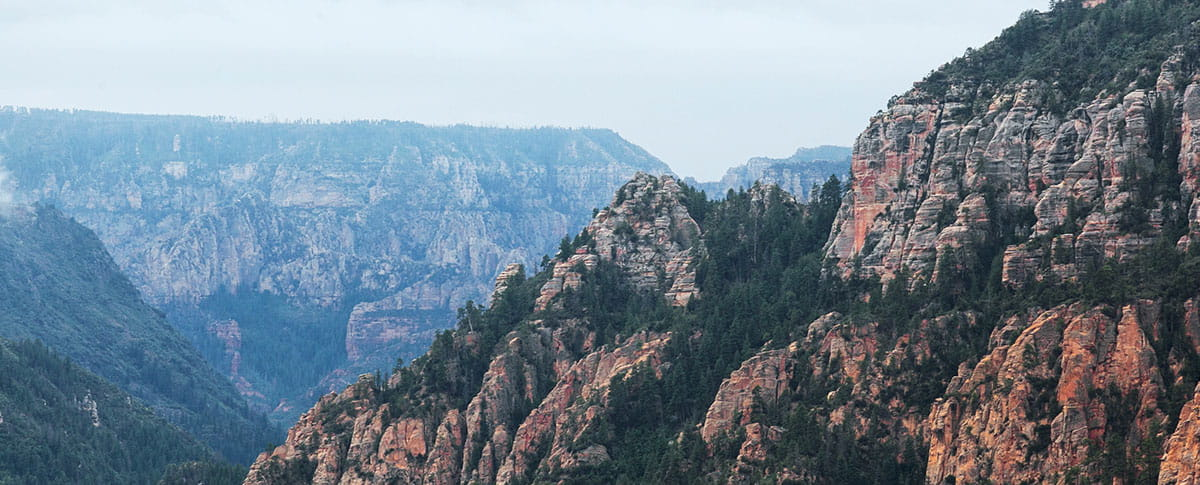
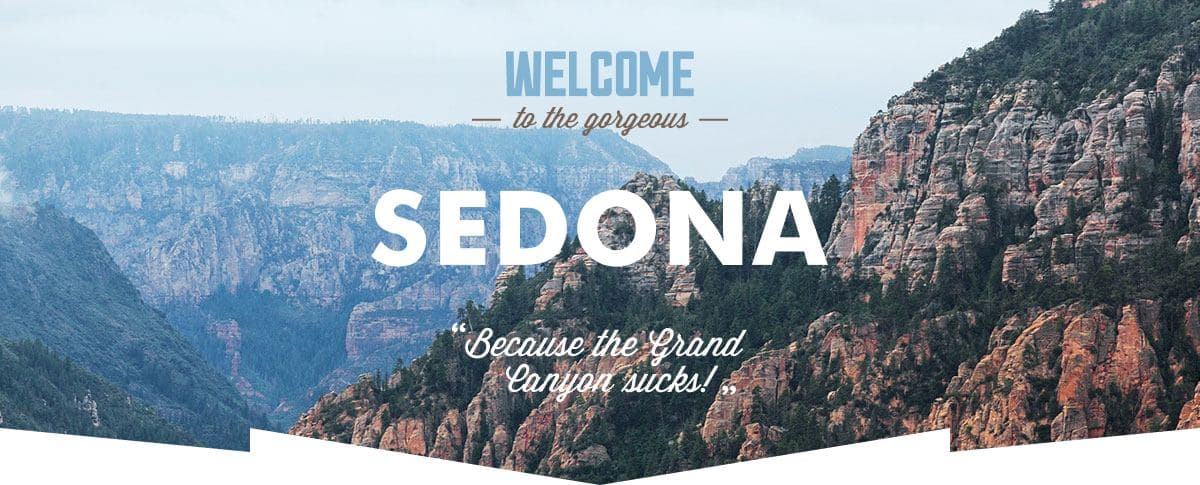
changed index image

diff --git a/index.html b/index.html
@@ -40,7 +40,10 @@
     <main class="main">
       <div class="main_wrap">
         <section class="screen">
-          <img src="./img/main-page/welcome.svg" alt="Welcome to the Sedona" />
+          <img
+            src="./img/main-page/index-background.jpg"
+            alt="Welcome to the Sedona"
+          />
         </section>
 
         <section class="presentation">
@@ -126,7 +129,7 @@
             </div>
           </section>
 
-          <section class="presentation_card_advantages">
+          <section class="presentation_card">
             <div class="cards_small-area card_height">
               <div class="presentation_card_service_small_area">
                 <h3 class="presentation_card_service_subtitle">
